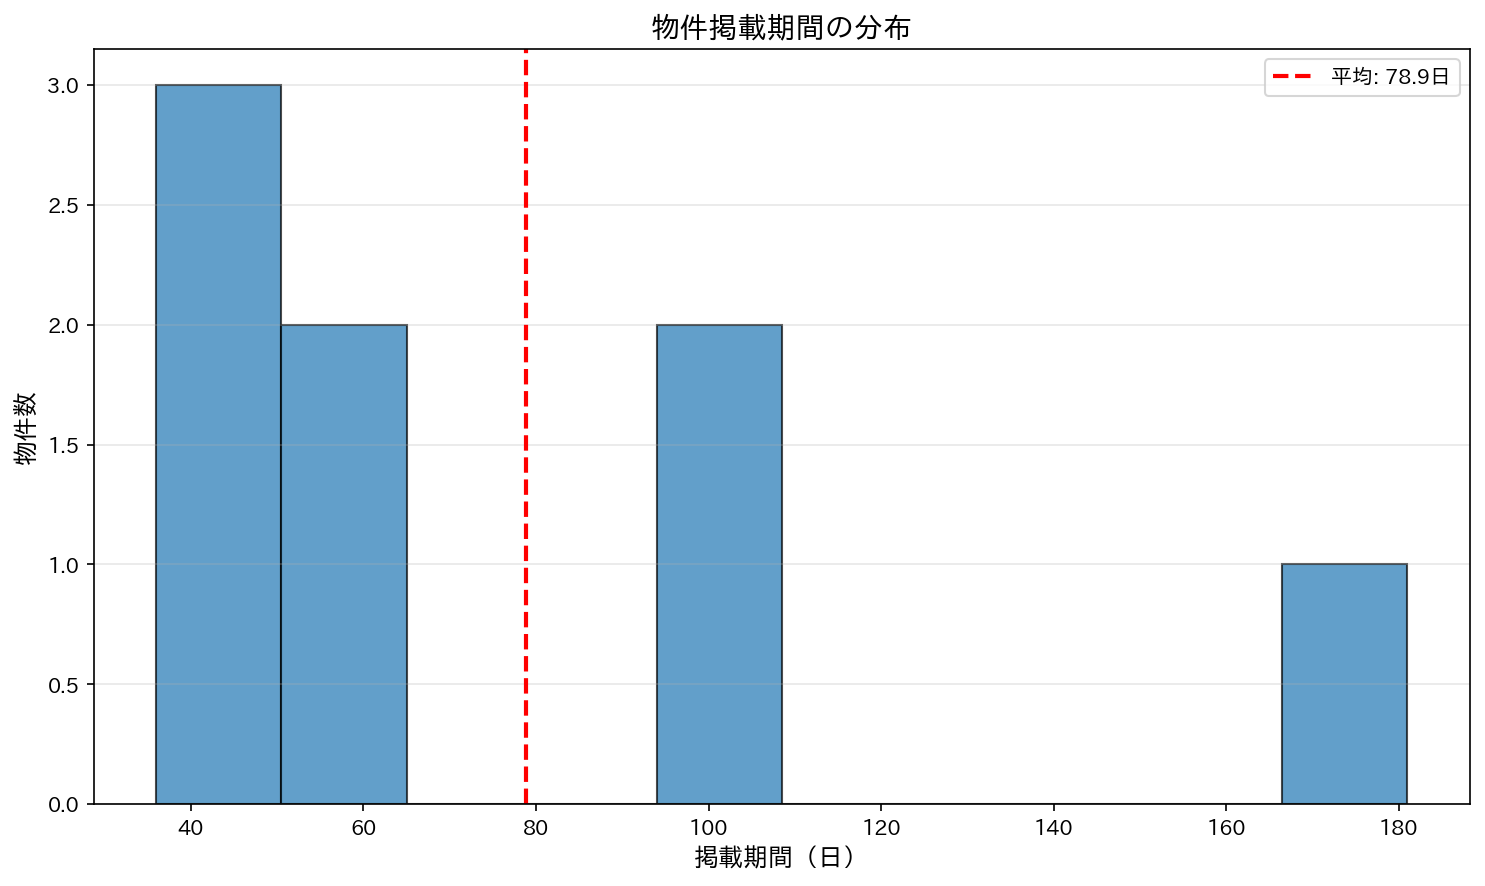
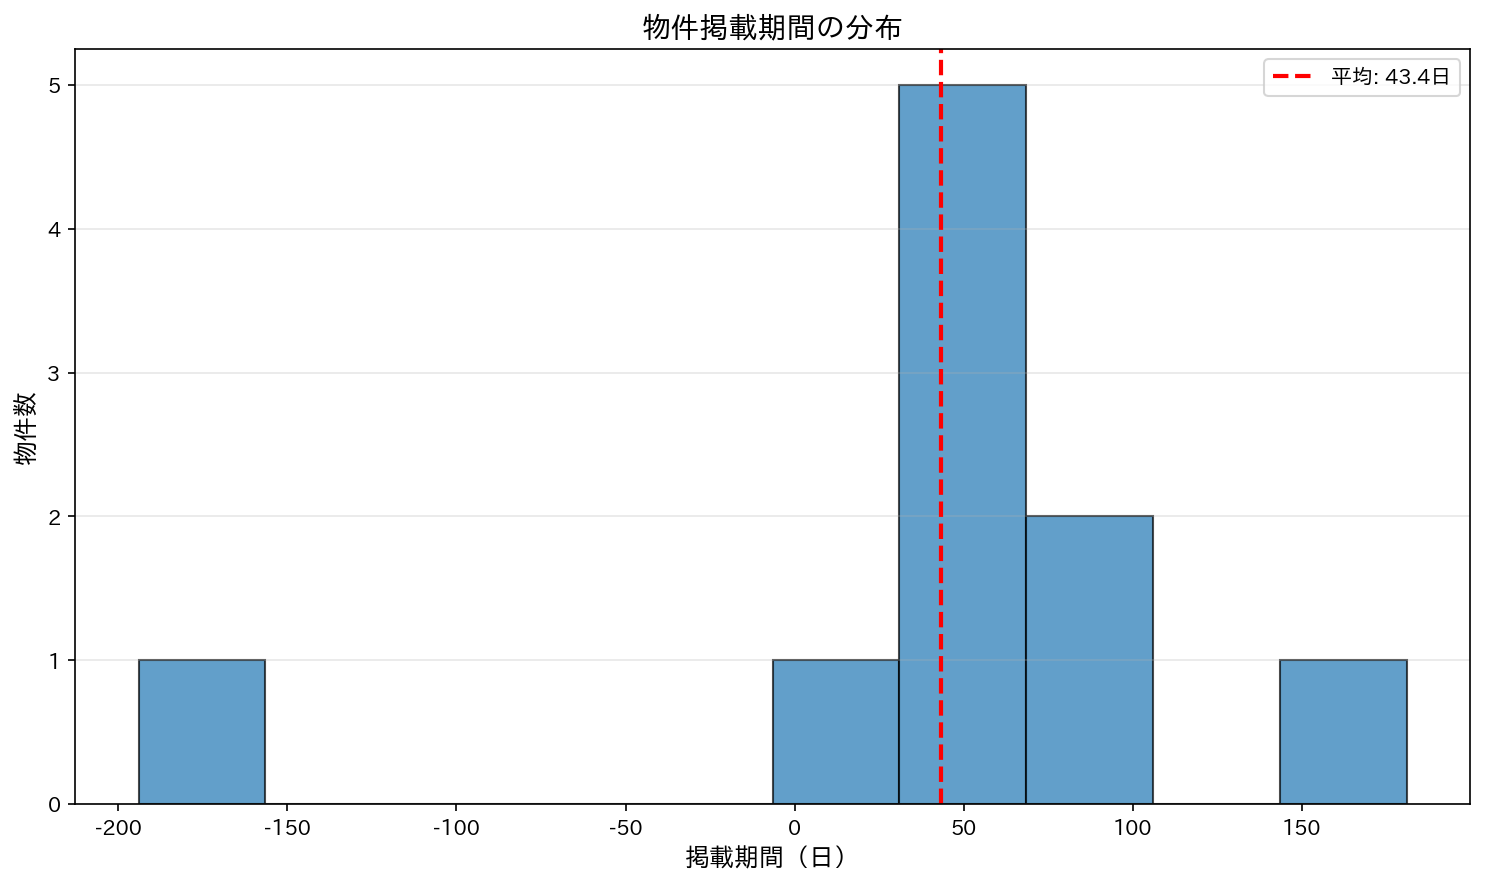
🤖 Update property tracking data [2026-05-02 05:02]

diff --git a/data/mlit_matching_report.md b/data/mlit_matching_report.md
@@ -1,5 +1,5 @@
 # MLIT API マッチングレポート
-生成日時: 2026-05-02 04:10:28
+生成日時: 2026-05-02 05:02:17
 
 ## 概要
 このレポートは、スムストックで販売終了した物件と、国土交通省の不動産取引価格情報を照合した結果です。
@@ -19,7 +19,7 @@
 - 掲載期間: 2025-10-19 ～ 2025-11-01
 - 最終価格: 3000万円
 
-**MLIT APIが利用できません。環境変数REINFOLIB_API_KEYを設定してください。**
+**類似取引が見つかりませんでした**
 
 ---
 
@@ -31,7 +31,7 @@
 - 掲載期間: 2025-10-19 ～ 2025-11-01
 - 最終価格: 6880万円
 
-**MLIT APIが利用できません。環境変数REINFOLIB_API_KEYを設定してください。**
+**類似取引が見つかりませんでした**
 
 ---
 
@@ -43,7 +43,7 @@
 - 掲載期間: 2025-10-19 ～ 2026-05-01
 - 最終価格: 8400万円
 
-**MLIT APIが利用できません。環境変数REINFOLIB_API_KEYを設定してください。**
+**類似取引が見つかりませんでした**
 
 ---
 
@@ -55,11 +55,23 @@
 - 掲載期間: 2025-10-19 ～ 2026-05-01
 - 最終価格: 12000万円
 
-**MLIT APIが利用できません。環境変数REINFOLIB_API_KEYを設定してください。**
+**類似取引が見つかりませんでした**
 
 ---
 
-### 5. 市川市堀之内４丁目
+### 5. 市川市中国分２丁目
+
+**スムストックデータ:**
+- 建物面積: 130.58m²
+- 土地面積: 103.0m²
+- 掲載期間: 2025-10-22 ～ 2026-05-01
+- 最終価格: 2498万円
+
+**類似取引が見つかりませんでした**
+
+---
+
+### 6. 市川市堀之内４丁目
 
 **スムストックデータ:**
 - 建物面積: 155.32m²
@@ -67,11 +79,11 @@
 - 掲載期間: 2025-11-01 ～ 2026-04-07
 - 最終価格: 7980万円
 
-**MLIT APIが利用できません。環境変数REINFOLIB_API_KEYを設定してください。**
+**類似取引が見つかりませんでした**
 
 ---
 
-### 6. 市川市東菅野１丁目
+### 7. 市川市東菅野１丁目
 
 **スムストックデータ:**
 - 建物面積: 157.9m²
@@ -79,11 +91,11 @@
 - 掲載期間: 2025-12-27 ～ 2026-01-01
 - 最終価格: 6650万円
 
-**MLIT APIが利用できません。環境変数REINFOLIB_API_KEYを設定してください。**
+**類似取引が見つかりませんでした**
 
 ---
 
-### 7. 市川市八幡６丁目２０６３番９
+### 8. 市川市八幡６丁目２０６３番９
 
 **スムストックデータ:**
 - 建物面積: 227.14m²
@@ -91,11 +103,11 @@
 - 掲載期間: 2026-02-01 ～ 2026-03-01
 - 最終価格: 8400万円
 
-**MLIT APIが利用できません。環境変数REINFOLIB_API_KEYを設定してください。**
+**類似取引が見つかりませんでした**
 
 ---
 
-### 8. 市川市相之川２丁目１番３２
+### 9. 市川市相之川２丁目１番３２
 
 **スムストックデータ:**
 - 建物面積: 165.3m²
@@ -103,6 +115,18 @@
 - 掲載期間: 2026-02-01 ～ 2026-03-01
 - 最終価格: 12000万円
 
-**MLIT APIが利用できません。環境変数REINFOLIB_API_KEYを設定してください。**
+**類似取引が見つかりませんでした**
+
+---
+
+### 10. 市川市新田４丁目
+
+**スムストックデータ:**
+- 建物面積: 112.69m²
+- 土地面積: 118.18m²
+- 掲載期間: 2026-05-01 ～ 2026-05-01
+- 最終価格: 4730万円
+
+**類似取引が見つかりませんでした**
 
 ---

diff --git a/data/tracking_report.md b/data/tracking_report.md
@@ -1,14 +1,14 @@
 
 # 物件追跡レポート
-生成日時: 2026-05-02 04:07:31
+生成日時: 2026-05-02 05:02:14
 
 ## 概要
 - 追跡中の物件総数: 11件
-- 販売中: 3件
-- 販売終了（推定）: 8件
+- 販売中: 1件
+- 販売終了（推定）: 10件
 
 ## 販売期間
-- 平均販売期間: 78.9日
+- 平均販売期間: 43.4日
 
 ## 価格変動
 - 値下げした物件: 2件
@@ -80,3 +80,19 @@
 - 価格変動: +0万円 (+0.0%)
 - 建物面積: 119.95m²
 - 土地面積: 113.44m²
+
+### 市川市中国分２丁目
+- 掲載期間: -3日
+- 初回価格: 2498万円
+- 最終価格: 2498万円
+- 価格変動: +0万円 (+0.0%)
+- 建物面積: 130.58m²
+- 土地面積: 103.0m²
+
+### 市川市新田４丁目
+- 掲載期間: -194日
+- 初回価格: 4730万円
+- 最終価格: 4730万円
+- 価格変動: +0万円 (+0.0%)
+- 建物面積: 112.69m²
+- 土地面積: 118.18m²
